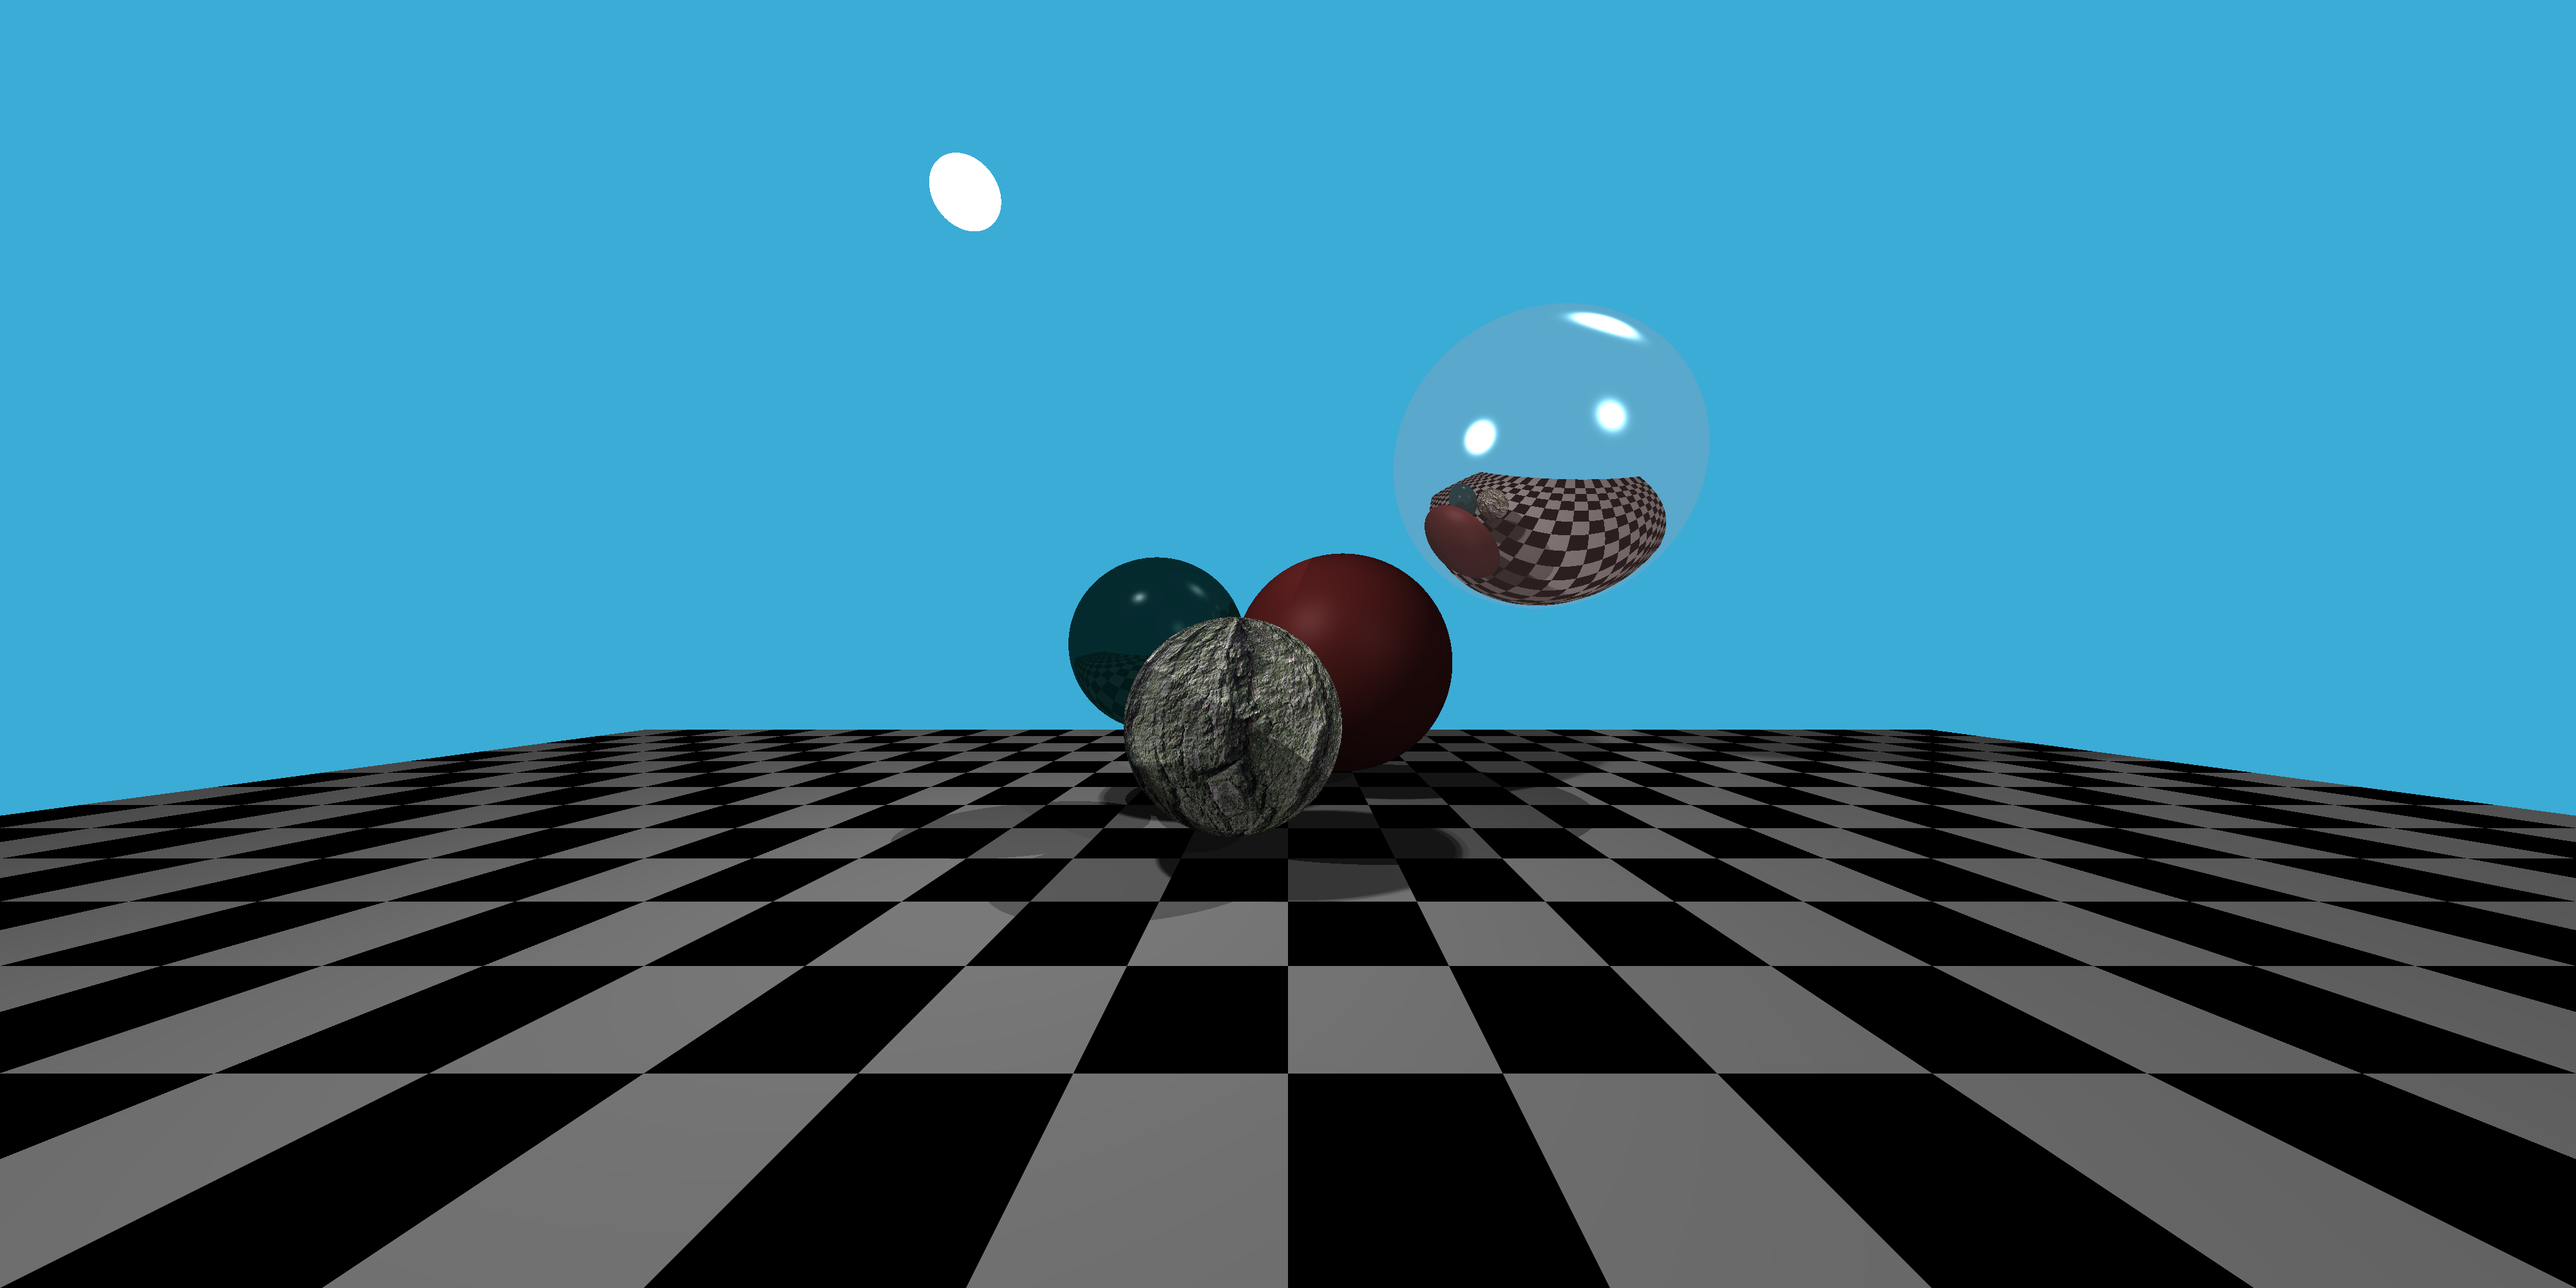
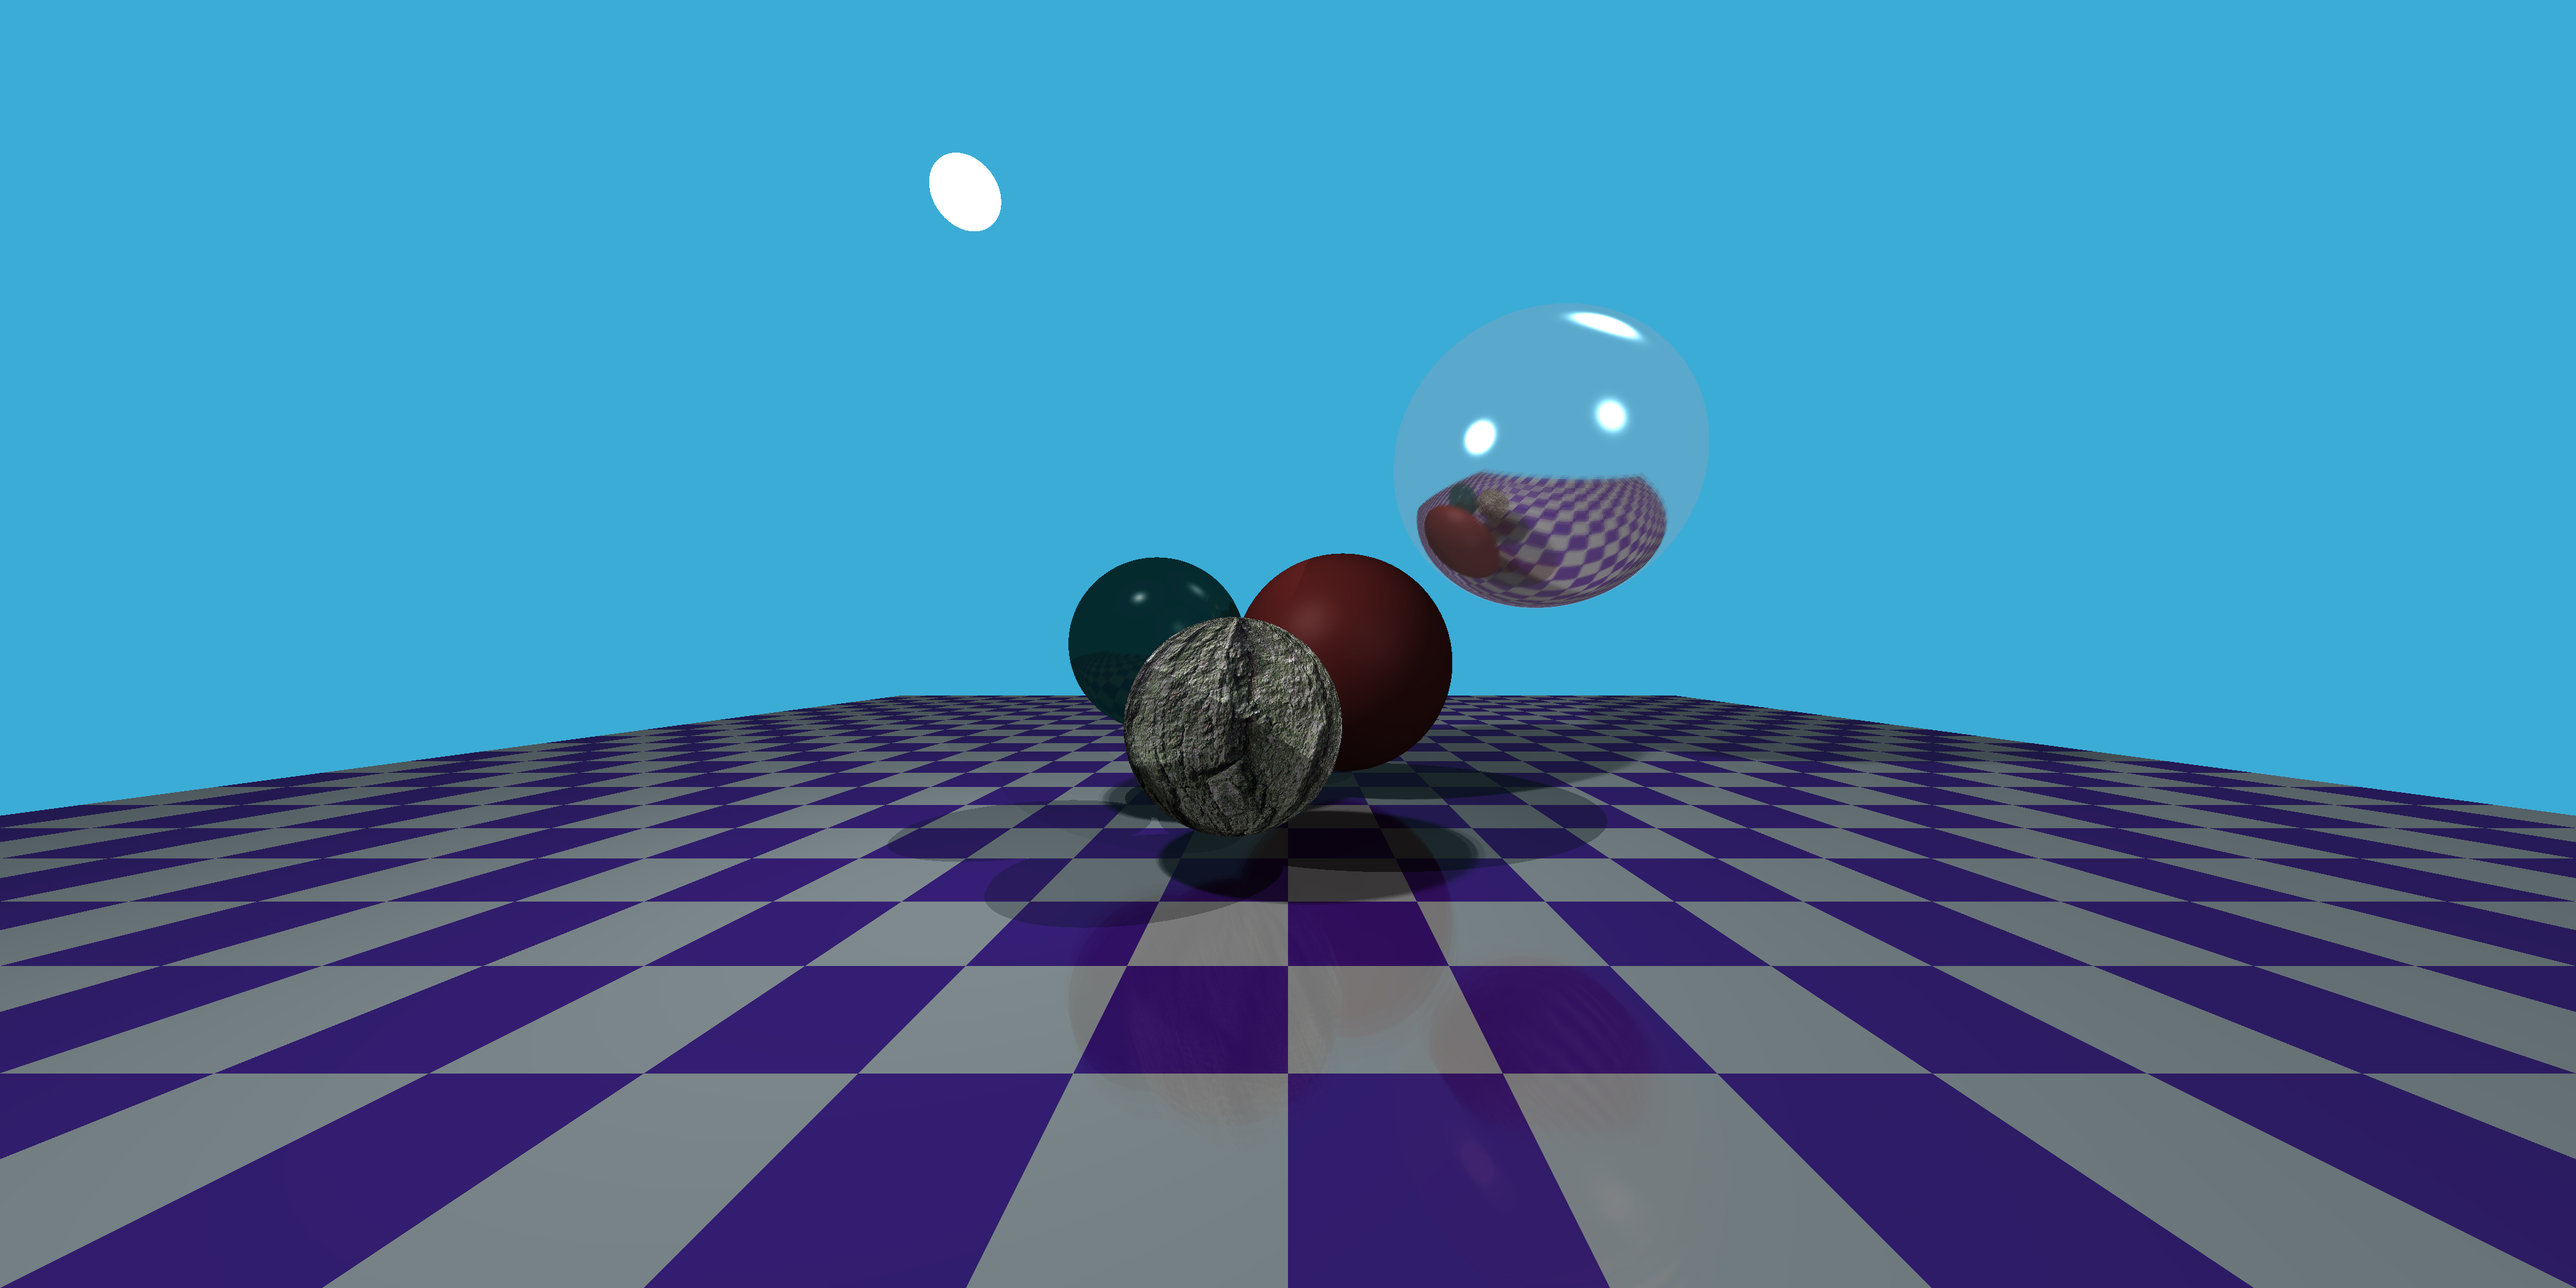
add smooth reflect and smooth shadows

Changed region(s): [[0.0, 0.527, 1.0, 1.0], [0.5312, 0.372, 0.6562, 0.465]]

diff --git a/main.cpp b/main.cpp
@@ -109,13 +109,15 @@ bool SceneIntersect(const Ray& ray, const std::vector<Sphere>& spheres, glm::vec
     {
         float d = -(ray.origin.y + 4) / ray.direction.y; // the checkerboard plane has equation y = -4
         glm::vec3 pt = ray.origin + ray.direction * d;
-        if (d > 0 && fabs(pt.x) < 30 && pt.z<2 && pt.z>-30 && d < spheres_dist) {
+        if (d > 0 && fabs(pt.x) < 30 && pt.z<2 && pt.z>-50 && d < spheres_dist) {
             checkerboard_dist = d;
             hit = pt;
             normal = glm::vec3(0, 1, 0);
             material.color = (int(0.5f * hit.x + 1000) + int(0.5f * hit.z)) & 1 ? glm::vec3(1.0f, 1.0f, 1.0f) 
-                : glm::vec3(0.0f, 0.0f, 0.0f);
+               : glm::vec3(0.39f, 0.11f, 0.79f);
+            //material.color = glm::vec3(0.39f, 0.11f, 0.79f);
             material.color = material.color * 0.3f;
+            material.albedo[2] = 0.1f;
         }
     }
 
@@ -139,13 +141,28 @@ void Lighting(const Scene& scene,glm::vec3& normal, glm::vec3& hitPoint,
                     glm::vec3 shadowOrig = glm::dot(lightDir, normal) < 0 ? hitPoint - normal * 1e-3f : hitPoint + normal * 1e-3f;
                     glm::vec3 shadowDir = glm::normalize(light.position - hitPoint);
                     glm::vec3 shadowPt, shadowN;
+                    glm::vec3 shadowPt1, shadowN1;
+                    glm::vec3 shadowPt2, shadowN2;
+                    glm::vec3 shadowPt3, shadowN3;
+                    glm::vec3 shadowPt4, shadowN4;
                     Material tmpMaterial;
                     Sphere tmpSphere;
 
                     auto sceneIntersect = SceneIntersect(Ray(shadowOrig, shadowDir),scene.spheres, shadowPt,
                         shadowN, tmpMaterial,tmpSphere);
+                    auto sceneIntersect1 = SceneIntersect(Ray(shadowOrig,glm::normalize(shadowDir + glm::vec3(0.01f))), scene.spheres, shadowPt1,
+                        shadowN1, tmpMaterial, tmpSphere);
+                    auto sceneIntersect2 = SceneIntersect(Ray(shadowOrig, glm::normalize(shadowDir - glm::vec3(0.01f))), scene.spheres, shadowPt2,
+                        shadowN2, tmpMaterial, tmpSphere);
+                    auto sceneIntersect3 = SceneIntersect(Ray(shadowOrig, glm::normalize(shadowDir + glm::vec3(0.02f))), scene.spheres, shadowPt3,
+                        shadowN3, tmpMaterial, tmpSphere);
+                    auto sceneIntersect4 = SceneIntersect(Ray(shadowOrig, glm::normalize(shadowDir - glm::vec3(0.02f))), scene.spheres, shadowPt4,
+                        shadowN4, tmpMaterial, tmpSphere);
 
-                    if (!sceneIntersect || tmpSphere.type == "lightSpere" || glm::length(shadowPt - shadowOrig) > lightDistance)
+                    auto intersect = sceneIntersect || sceneIntersect1 || sceneIntersect2 || sceneIntersect3 || sceneIntersect4;
+                    shadowPt = (shadowPt + shadowPt1 + shadowPt2 + shadowPt3 + shadowPt4) / 5.0f;
+
+                    if (!intersect || tmpSphere.type == "lightSpere" || glm::length(shadowPt - shadowOrig) > lightDistance)
                     {
                         float nl = glm::dot(normal, lightDir);
                         diffuse += std::max(0.0f, nl) * light.intensity;
@@ -165,21 +182,34 @@ glm::vec3 Trace(const Ray& ray, Scene& scene, int depth = 0)
     Material material;
     Sphere closetSphere;
 
-    if (depth > 4 || !SceneIntersect(ray, scene.spheres, point, normal, material,closetSphere))
+    if (depth > 3 || !SceneIntersect(ray, scene.spheres, point, normal, material, closetSphere))
     {
         return kDefaultBackgroundColor;
     }
 
     if (closetSphere.type == "lightSpere")
         return material.color;
+    
 
     float kr = 1;
     fresnel(ray.direction, normal, material.albedo[3], kr);
     bool outside = glm::dot(normal, ray.direction) < 0;
     
     glm::vec3 reflectDir = glm::normalize(-reflect(ray.direction, normal));
-    glm::vec3 reflectOrigin = glm::dot(reflectDir, normal) < 0 ? point - normal * 1e-2f : point + normal * 1e-2f;
-    glm::vec3 reflectedColor = Trace(Ray(reflectOrigin, reflectDir), scene, depth + 1);
+    glm::vec3 reflectDir1 = glm::normalize(-reflect(ray.direction,glm::normalize(normal + glm::vec3(0.01f))));
+    glm::vec3 reflectDir2 = glm::normalize(-reflect(ray.direction, glm::normalize(normal + glm::vec3(0.02f))));
+    glm::vec3 reflectDir3 = glm::normalize(-reflect(ray.direction, glm::normalize(normal - glm::vec3(0.01f))));
+    glm::vec3 reflectDir4 = glm::normalize(-reflect(ray.direction, glm::normalize(normal - glm::vec3(0.02f))));
+    glm::vec3 reflectDir5 = glm::normalize(-reflect(ray.direction, glm::normalize(normal + glm::vec3(0.001f))));
+    glm::vec3 reflectDir6 = glm::normalize(-reflect(ray.direction, glm::normalize(normal - glm::vec3(0.001f))));
+    glm::vec3 reflectOrigin = outside < 0 ? point - normal * 1e-2f : point + normal * 1e-2f;
+    glm::vec3 reflectedColor = (Trace(Ray(reflectOrigin, reflectDir), scene, depth + 1) +
+        Trace(Ray(reflectOrigin, reflectDir1), scene, depth + 1) +
+        Trace(Ray(reflectOrigin, reflectDir2), scene, depth + 1) +
+        Trace(Ray(reflectOrigin, reflectDir3), scene, depth + 1) +
+        Trace(Ray(reflectOrigin, reflectDir4), scene, depth + 1) +
+        Trace(Ray(reflectOrigin, reflectDir5), scene, depth + 1) +
+        Trace(Ray(reflectOrigin, reflectDir6), scene, depth + 1)) / 7.0f;
 
     float diffuse = 0, specular = 0, back = 0;
     Lighting(scene, normal, point, -ray.direction, material.specularExponent, diffuse, specular, back);
